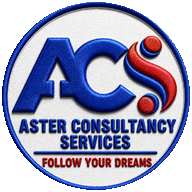
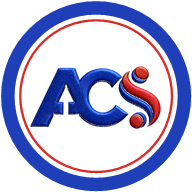
req 1 change

diff --git a/index.html b/index.html
@@ -4,19 +4,19 @@
 <meta charset="utf-8">
 <meta name="viewport" content="width=device-width, initial-scale=1">
 <title>Aster Consultancy Services (ACS) | Recruitment, ESG, Accreditation, Compliance &amp; Digital Growth</title>
-<meta name="description" content="Aster Consultancy Services (ACS), incorporated in 2023, is your one-stop consultancy partner for Recruitment, Environmental &amp; ESG consultancy, NAAC Accreditation, Healthcare Certifications and TPA Empanelment, Digital Marketing, AI Automation and Business Registration &amp; Compliance. Offices in Noida and Varanasi.">
+<meta name="description" content="Aster Consultancy Services (ACS) is your one-stop consultancy partner for Recruitment, Environmental &amp; ESG consultancy, NAAC Accreditation, Healthcare Certifications and TPA Empanelment, Digital Marketing, AI Automation and Business Registration &amp; Compliance. Offices in Noida and Varanasi.">
 <meta name="theme-color" content="#FFFFFF">
 <meta property="og:title" content="Aster Consultancy Services (ACS)">
 <meta property="og:description" content="Your one-stop consultancy partner. Follow your dreams.">
 <meta property="og:type" content="website">
-<meta property="og:image" content="assets/img/logo.jpg">
+<meta property="og:image" content="assets/img/logo-512.png">
 <link rel="icon" href="assets/img/favicon-64.png" type="image/png">
 <link rel="apple-touch-icon" href="assets/img/icon-192.png">
 <link rel="preconnect" href="https://fonts.googleapis.com">
 <link rel="preconnect" href="https://fonts.gstatic.com" crossorigin>
 <link href="https://fonts.googleapis.com/css2?family=Poppins:wght@500;600;700&family=Inter:wght@400;500;600&display=swap" rel="stylesheet">
 <script type="application/ld+json">
-{"@context":"https://schema.org","@type":"ProfessionalService","name":"Aster Consultancy Services","alternateName":"ACS","slogan":"Follow your dreams","foundingDate":"2023","description":"One-stop consultancy for Recruitment, Environmental & ESG, Education Accreditation, Healthcare Certifications, Digital Marketing, AI Automation and Business Registration & Compliance.","email":"info@asterconsultancyservices.com","logo":"assets/img/logo.jpg","areaServed":"IN","address":[{"@type":"PostalAddress","addressLocality":"Noida","addressRegion":"Uttar Pradesh","addressCountry":"IN"},{"@type":"PostalAddress","addressLocality":"Varanasi","addressRegion":"Uttar Pradesh","addressCountry":"IN"}]}
+{"@context":"https://schema.org","@type":"ProfessionalService","name":"Aster Consultancy Services","alternateName":"ACS","slogan":"Follow your dreams","foundingDate":"2023","description":"One-stop consultancy for Recruitment, Environmental & ESG, Education Accreditation, Healthcare Certifications, Digital Marketing, AI Automation and Business Registration & Compliance.","email":"info@asterconsultancyservices.com","logo":"assets/img/logo-512.png","areaServed":"IN","address":[{"@type":"PostalAddress","addressLocality":"Noida","addressRegion":"Uttar Pradesh","addressCountry":"IN"},{"@type":"PostalAddress","addressLocality":"Varanasi","addressRegion":"Uttar Pradesh","addressCountry":"IN"}]}
 </script>
 <script>document.documentElement.classList.add('js')</script>
 <style>
@@ -130,6 +130,7 @@ header.scrolled .logo{width:48px;height:48px}
 .assure .ico{width:17px;height:17px;color:var(--ok)}
 
 /* Hero finder */
+.finder-box{width:min(100%,660px);padding:8px;border-radius:24px;background:var(--white);border:1px solid var(--line);text-align:left;box-shadow:0 30px 70px -36px rgba(31,68,200,.55)}
 .fb-tabs{display:flex;gap:4px;padding:2px 2px 8px}
 .fb-tabs button{display:inline-flex;align-items:center;gap:8px;padding:8px 15px;border-radius:12px;border:0;background:transparent;color:var(--muted);font-family:var(--display);font-weight:500;font-size:.9rem;cursor:pointer;transition:background .2s,color .2s}
 .fb-tabs button .ico{width:16px;height:16px}
@@ -204,7 +205,7 @@ header.scrolled .logo{width:48px;height:48px}
 .hb-tile.active .hb-ico{background:#fff;color:var(--c)}
 
 /* Stats */
-.stats-grid{display:grid;grid-template-columns:repeat(4,1fr);border:1px solid var(--line);border-radius:var(--radius);background:var(--white);box-shadow:var(--shadow-sm)}
+.stats-grid{display:grid;grid-template-columns:repeat(3,1fr);border:1px solid var(--line);border-radius:var(--radius);background:var(--white);box-shadow:var(--shadow-sm)}
 .stat{padding:28px 30px;border-left:1px solid var(--line)}
 .stat:first-child{border-left:0}
 .stat b{display:block;font-family:var(--display);font-weight:700;font-size:2.2rem;line-height:1.1;letter-spacing:-.03em;color:var(--navy)}
@@ -235,12 +236,12 @@ section{padding:104px 0;position:relative}
 .about-copy .lead{margin-top:18px}
 .about-copy .lead strong{color:var(--navy);font-weight:600}
 .pillars{list-style:none;display:grid;grid-template-columns:repeat(3,1fr);gap:12px;margin-top:30px}
-.pillars li{display:flex;flex-direction:column;gap:2px;padding:18px;border-radius:18px;background:var(--bg-soft);border:1px solid var(--line)}
-.pillars .pi{width:40px;height:40px;border-radius:12px;display:grid;place-items:center;background:var(--red-soft);color:var(--red);margin-bottom:10px}
-.pillars .pi.blue{background:var(--blue-soft);color:var(--blue)}
+.pillars li{display:flex;flex-direction:column;gap:2px;padding:18px;border-radius:18px;background:linear-gradient(160deg,#14318F,#0D2470);border:1px solid #0D2470;box-shadow:var(--shadow-sm)}
+.pillars .pi{width:40px;height:40px;border-radius:12px;display:grid;place-items:center;background:rgba(255,255,255,.14);color:#FF9A91;margin-bottom:10px}
+.pillars .pi.blue{color:#A9BBFF}
 .pillars .pi .ico{width:20px;height:20px}
-.pillars b{font-family:var(--display);font-weight:600;color:var(--navy);font-size:.98rem}
-.pillars small{color:var(--muted);font-size:.82rem;line-height:1.4}
+.pillars b{font-family:var(--display);font-weight:600;color:#fff;font-size:.98rem}
+.pillars small{color:#C3CEF3;font-size:.82rem;line-height:1.4}
 .mv{display:grid;gap:16px}
 .mv-card{position:relative;overflow:hidden;border-radius:24px;padding:30px 30px 30px 96px;background:var(--white);border:1px solid var(--line);box-shadow:var(--shadow-sm)}
 .mv-card.dark{background:linear-gradient(135deg,#14318F,#0D2470);border-color:#0D2470;color:#fff}
@@ -437,9 +438,9 @@ footer a:hover,footer button.link:hover{color:var(--blue)}
 @media (max-width:960px){
   .about,.contact-grid,.faq{grid-template-columns:1fr}
   .facts{grid-template-columns:1fr 1fr}
-  .stats-grid{grid-template-columns:1fr 1fr}
-  .stat:nth-child(3){border-left:0}
-  .stat:nth-child(n+3){border-top:1px solid var(--line)}
+  .stats-grid{grid-template-columns:1fr}
+  .stat{border-left:0}
+  .stat+.stat{border-top:1px solid var(--line)}
   .steps{grid-template-columns:1fr 1fr;gap:40px 24px}
   .steps::before,.steps-line{display:none}
   .foot-grid{grid-template-columns:1fr 1fr}
@@ -603,7 +604,7 @@ footer a:hover,footer button.link:hover{color:var(--blue)}
     <div class="hero-bg" aria-hidden="true"><span></span><span></span><span></span></div>
     <div class="wrap hero-center">
       <div>
-        <span class="pill"><b>FOLLOW YOUR DREAMS</b><span class="pill-rest">Incorporated 2023 &middot; Recruitment &middot; Compliance &middot; Growth</span></span>
+        <span class="pill"><b>FOLLOW YOUR DREAMS</b><span class="pill-rest">Consultancy &middot; Recruitment &middot; Compliance &middot; Growth</span></span>
         <h1>Your one-stop <span class="rot" id="rot">consultancy</span> partner.</h1>
         <p class="sub">From Recruitment and Environmental &amp; ESG Consultancy to NAAC Accreditation, Hospital Certifications, Company Registration, Digital Marketing and AI Automation, ACS brings expert guidance under one coordinated team.</p>
         <div class="finder-box">
@@ -634,7 +635,6 @@ footer a:hover,footer button.link:hover{color:var(--blue)}
         <div class="showcase" id="showcase" aria-roledescription="carousel" aria-label="Our practice areas">
           <div class="sc-top">
             <span class="sc-brand"><img src="assets/img/logo-160.png" width="160" height="160" alt=""><span>FOLLOW YOUR DREAMS</span></span>
-            <span class="sc-count"><b id="sc-n">01</b> / 06</span>
           </div>
           <div class="sc-art" id="sc-art" aria-hidden="true">
             <div class="sc-core" id="sc-core"><svg class="ico"><use id="sc-big" href="#i-users"/></svg></div>
@@ -665,8 +665,7 @@ footer a:hover,footer button.link:hover{color:var(--blue)}
   <div class="stats">
     <div class="wrap">
       <div class="stats-grid reveal">
-        <div class="stat"><b><span data-count="6">6</span></b><span>Practice Areas under one roof</span></div>
-        <div class="stat"><b>2023</b><span>Year of Incorporation</span></div>
+        <div class="stat"><b><span data-count="1">1</span> <em>Contact</em></b><span>Coordinating every service</span></div>
         <div class="stat"><b><span data-count="2">2</span> <em>Offices</em></b><span>Noida &amp; Varanasi</span></div>
         <div class="stat"><b>Pan-<em>India</em></b><span>Online &amp; Offline Delivery</span></div>
       </div>
@@ -688,7 +687,7 @@ footer a:hover,footer button.link:hover{color:var(--blue)}
       <div class="about-copy reveal">
         <span class="eyebrow">About Us</span>
         <h2>Your one-stop <em>consultancy partner.</em></h2>
-        <p class="lead">Incorporated in 2023, <strong>Aster Consultancy Services (ACS)</strong> brings expert guidance for institutions, businesses and professionals under one coordinated team.</p>
+        <p class="lead"><strong>Aster Consultancy Services (ACS)</strong> brings expert guidance for institutions, businesses and professionals under one coordinated team.</p>
         <ul class="pillars">
           <li><span class="pi"><svg class="ico"><use href="#i-shield"/></svg></span><b>Professionalism</b><small>Consistent quality standards</small></li>
           <li><span class="pi blue"><svg class="ico"><use href="#i-handshake"/></svg></span><b>Integrity</b><small>Ethical &amp; confidential</small></li>
@@ -701,7 +700,7 @@ footer a:hover,footer button.link:hover{color:var(--blue)}
           <h3>Our Mission</h3>
           <p>Reliable consultancy, compliance, accreditation and recruitment services that help organisations achieve sustainable growth and long-term success.</p>
         </div>
-        <div class="mv-card">
+        <div class="mv-card dark">
           <span class="mv-ico"><svg class="ico"><use href="#i-eye"/></svg></span>
           <h3>Our Vision</h3>
           <p>To become one of India's most trusted consultancy firms, delivering innovative, ethical and high-quality solutions.</p>
@@ -726,12 +725,12 @@ footer a:hover,footer button.link:hover{color:var(--blue)}
       </div>
       <div class="dir" id="dir">
         <div class="dir-tabs" role="tablist" aria-label="Practice areas" aria-orientation="vertical">
-          <button class="dir-tab" role="tab" id="t-rec" aria-controls="d-rec" aria-selected="true"><span class="i"><svg class="ico"><use href="#i-users"/></svg></span>01 &middot; Recruitment &amp; Workforce</button>
-          <button class="dir-tab" role="tab" id="t-env" aria-controls="d-env" aria-selected="false" tabindex="-1"><span class="i"><svg class="ico"><use href="#i-leaf"/></svg></span>02 &middot; Environmental &amp; ESG</button>
-          <button class="dir-tab" role="tab" id="t-edu" aria-controls="d-edu" aria-selected="false" tabindex="-1"><span class="i"><svg class="ico"><use href="#i-cap"/></svg></span>03 &middot; Education &amp; Accreditation</button>
-          <button class="dir-tab" role="tab" id="t-hc" aria-controls="d-hc" aria-selected="false" tabindex="-1"><span class="i"><svg class="ico"><use href="#i-heart"/></svg></span>04 &middot; Healthcare Certification &amp; TPA</button>
-          <button class="dir-tab" role="tab" id="t-dig" aria-controls="d-dig" aria-selected="false" tabindex="-1"><span class="i"><svg class="ico"><use href="#i-code"/></svg></span>05 &middot; Digital Marketing, Tech &amp; AI</button>
-          <button class="dir-tab" role="tab" id="t-biz" aria-controls="d-biz" aria-selected="false" tabindex="-1"><span class="i"><svg class="ico"><use href="#i-doc"/></svg></span>06 &middot; Business Registration &amp; Compliance</button>
+          <button class="dir-tab" role="tab" id="t-rec" aria-controls="d-rec" aria-selected="true"><span class="i"><svg class="ico"><use href="#i-users"/></svg></span>Recruitment &amp; Workforce</button>
+          <button class="dir-tab" role="tab" id="t-env" aria-controls="d-env" aria-selected="false" tabindex="-1"><span class="i"><svg class="ico"><use href="#i-leaf"/></svg></span>Environmental &amp; ESG</button>
+          <button class="dir-tab" role="tab" id="t-edu" aria-controls="d-edu" aria-selected="false" tabindex="-1"><span class="i"><svg class="ico"><use href="#i-cap"/></svg></span>Education &amp; Accreditation</button>
+          <button class="dir-tab" role="tab" id="t-hc" aria-controls="d-hc" aria-selected="false" tabindex="-1"><span class="i"><svg class="ico"><use href="#i-heart"/></svg></span>Healthcare Certification &amp; TPA</button>
+          <button class="dir-tab" role="tab" id="t-dig" aria-controls="d-dig" aria-selected="false" tabindex="-1"><span class="i"><svg class="ico"><use href="#i-code"/></svg></span>Digital Marketing, Tech &amp; AI</button>
+          <button class="dir-tab" role="tab" id="t-biz" aria-controls="d-biz" aria-selected="false" tabindex="-1"><span class="i"><svg class="ico"><use href="#i-doc"/></svg></span>Business Registration &amp; Compliance</button>
         </div>
         <div class="dir-panels">
 
@@ -893,7 +892,6 @@ footer a:hover,footer button.link:hover{color:var(--blue)}
       </div>
       <div class="faq-list reveal">
         <details open><summary>Can we hire ACS for just one service?<span class="pm" aria-hidden="true"></span></summary><p>Yes. Engagement is flexible: you can commission a single service, such as recruitment or GST filing, or a cross-disciplinary combination coordinated by one point of contact.</p></details>
-        <details><summary>When was ACS incorporated?<span class="pm" aria-hidden="true"></span></summary><p>Aster Consultancy Services was incorporated in 2023 and has offices in Noida and Varanasi.</p></details>
         <details><summary>Do you work outside Noida and Varanasi?<span class="pm" aria-hidden="true"></span></summary><p>Yes. We deliver services across India, both online and offline.</p></details>
         <details><summary>Do job seekers pay to register?<span class="pm" aria-hidden="true"></span></summary><p>No. Registration is free for candidates. We match you to openings across IT, BFSI, Healthcare, FMCG, Manufacturing, Sales and other sectors.</p></details>
         <details><summary>What is TPA empanelment for hospitals?<span class="pm" aria-hidden="true"></span></summary><p>TPA (Third-Party Administrator) empanelment connects a hospital with insurance companies and healthcare networks. We assist hospitals through the empanelment process and with certifications such as NABH, FSDA and PC-PNDT.</p></details>
@@ -928,7 +926,6 @@ footer a:hover,footer button.link:hover{color:var(--blue)}
         <ul class="details">
           <li><span class="d-ico"><svg class="ico"><use href="#i-mail"/></svg></span><div><span class="l">Email</span><a href="mailto:info@asterconsultancyservices.com">info@asterconsultancyservices.com</a></div></li>
           <li data-phone hidden><span class="d-ico"><svg class="ico"><use href="#i-phone"/></svg></span><div><span class="l">Phone</span><a data-phone-link href="#contact"><span data-phone-text></span></a></div></li>
-          <li><span class="d-ico"><svg class="ico"><use href="#i-calendar"/></svg></span><div><span class="l">Incorporated</span><b>2023</b></div></li>
           <li><span class="d-ico"><svg class="ico"><use href="#i-globe"/></svg></span><div><span class="l">Service Delivery</span><b>Pan-India, Online &amp; Offline</b></div></li>
         </ul>
         <div class="offices">
@@ -998,17 +995,17 @@ footer a:hover,footer button.link:hover{color:var(--blue)}
           <img class="logo" src="assets/img/logo-160.png" width="160" height="160" alt="">
           <div class="brand-name">Aster Consultancy Services<small>Follow your dreams</small></div>
         </a>
-        <p class="foot-about">Your one-stop consultancy partner for Recruitment, Environmental &amp; ESG, Accreditation, Healthcare Certification, Compliance and Digital Growth. Incorporated in 2023.</p>
+        <p class="foot-about">Your one-stop consultancy partner for Recruitment, Environmental &amp; ESG, Accreditation, Healthcare Certification, Compliance and Digital Growth.</p>
       </div>
       <div>
         <h4>Practice Areas</h4>
         <ul>
-          <li><button class="link" data-area="d-rec">01 &middot; Recruitment &amp; Workforce</button></li>
-          <li><button class="link" data-area="d-env">02 &middot; Environmental &amp; ESG</button></li>
-          <li><button class="link" data-area="d-edu">03 &middot; Education &amp; Accreditation</button></li>
-          <li><button class="link" data-area="d-hc">04 &middot; Healthcare Certification &amp; TPA</button></li>
-          <li><button class="link" data-area="d-dig">05 &middot; Digital Marketing, Tech &amp; AI</button></li>
-          <li><button class="link" data-area="d-biz">06 &middot; Business Registration &amp; Compliance</button></li>
+          <li><button class="link" data-area="d-rec">Recruitment &amp; Workforce</button></li>
+          <li><button class="link" data-area="d-env">Environmental &amp; ESG</button></li>
+          <li><button class="link" data-area="d-edu">Education &amp; Accreditation</button></li>
+          <li><button class="link" data-area="d-hc">Healthcare Certification &amp; TPA</button></li>
+          <li><button class="link" data-area="d-dig">Digital Marketing, Tech &amp; AI</button></li>
+          <li><button class="link" data-area="d-biz">Business Registration &amp; Compliance</button></li>
         </ul>
       </div>
       <div>
@@ -1159,7 +1156,6 @@ footer a:hover,footer button.link:hover{color:var(--blue)}
     void show.offsetWidth;
     bars[i].className = 'run';
     const n = String(i + 1).padStart(2, '0');
-    $('#sc-n').textContent = n;
     const fill = () => {
       const chips = t.dataset.chips.split('|');
       $('#sc-title').textContent = t.dataset.title;

diff --git a/README.md b/README.md
@@ -1,13 +1,13 @@
-Aster Consultancy Services (ACS) website. Incorporated 2023.
+Aster Consultancy Services (ACS) website.
 
 Static site (plain HTML). Deployed on Render as a Static Site: build command empty, publish directory `.`
 
 ## Updating details
 - **Phone number:** open index.html, find `const PHONE = '';` near the top of the script at the bottom of the file, and add your number, e.g. `const PHONE = '+91 98765 43210';`. That turns on every Call and WhatsApp button. Until then they stay hidden.
 - **Email:** info@asterconsultancyservices.com appears in the top bar, contact section, footer and `const EMAIL`. Find and replace all of them.
-- **Services:** every service is listed in the "Services directory" section of index.html (one `<li>` per service), grouped by practice area in this order: 01 Recruitment, 02 Environmental & ESG, 03 Education & Accreditation, 04 Healthcare Certification & TPA, 05 Digital Marketing, Tech & AI, 06 Business Registration & Compliance.
+- **Services:** every service is listed in the "Services directory" section of index.html (one `<li>` per service), grouped by practice area in this order: Recruitment, Environmental & ESG, Education & Accreditation, Healthcare Certification & TPA, Digital Marketing, Tech & AI, Business Registration & Compliance.
 
 ## Images
 The site uses no photos, only the circular logo and icons.
 - `assets/img/thread 3d logo.jpeg` is the original logo.
-- `logo.jpg` (large), `logo-160.png` (header/footer), `icon-192.png` and `favicon-64.png` are circular web-sized copies made from it.
+- `logo-512.png` (large), `logo-160.png` (header/footer), `icon-192.png` and `favicon-64.png` are circular "ACS" logos made from it.
